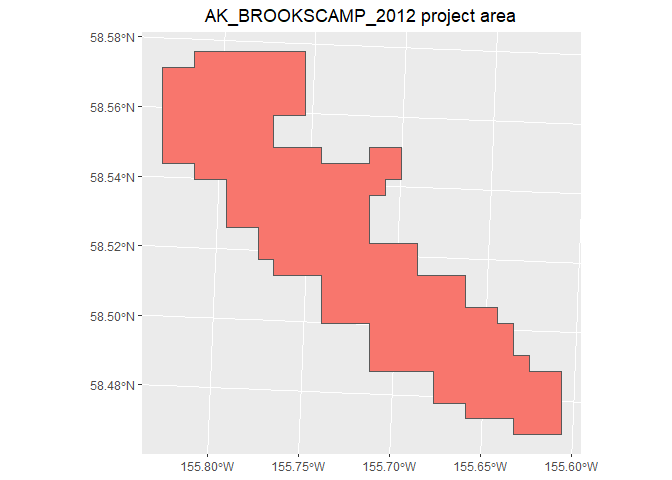
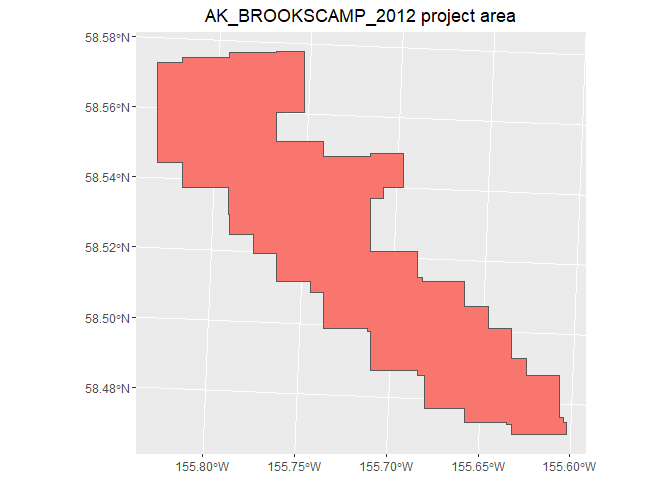
Modifed the call to st_rasterize in BuildProjectPolygonFromIndex to use nx, ny instead of dx, dy and updated the readme file

diff --git a/README.md b/README.md
@@ -58,48 +58,7 @@ pointCRS <- 26905
 # create index
 BuildIndexFromPoints(URL, pointFolder, outputFile, projString = pointCRS, 
                      appendInfo = data.frame("Project" = "AK_BrooksCamp_2012"))
-#> Building index:  AK_BrooksCamp_2012.gpkg 
-#> Read extent of AK_BrooksCamp_2012_000030.laz 
-#> Read extent of AK_BrooksCamp_2012_000039.laz 
-#> Read extent of AK_BrooksCamp_2012_000015.laz 
-#> Read extent of AK_BrooksCamp_2012_000024.laz 
-#> Read extent of AK_BrooksCamp_2012_000038.laz 
-#> Read extent of AK_BrooksCamp_2012_000019.laz 
-#> Read extent of AK_BrooksCamp_2012_000041.laz 
-#> Read extent of AK_BrooksCamp_2012_000025.laz 
-#> Read extent of AK_BrooksCamp_2012_000034.laz 
-#> Read extent of AK_BrooksCamp_2012_000020.laz 
-#> Read extent of AK_BrooksCamp_2012_000040.laz 
-#> Read extent of AK_BrooksCamp_2012_000029.laz 
-#> Read extent of AK_BrooksCamp_2012_000008.laz 
-#> Read extent of AK_BrooksCamp_2012_000009.laz 
-#> Read extent of AK_BrooksCamp_2012_000035.laz 
-#> Read extent of AK_BrooksCamp_2012_000001.laz 
-#> Read extent of AK_BrooksCamp_2012_000004.laz 
-#> Read extent of AK_BrooksCamp_2012_000010.laz 
-#> Read extent of AK_BrooksCamp_2012_000014.laz 
-#> Read extent of AK_BrooksCamp_2012_000031.laz 
-#> Read extent of AK_BrooksCamp_2012_000013.laz 
-#> Read extent of AK_BrooksCamp_2012_000023.laz 
-#> Read extent of AK_BrooksCamp_2012_000026.laz 
-#> Read extent of AK_BrooksCamp_2012_000005.laz 
-#> Read extent of AK_BrooksCamp_2012_000037.laz 
-#> Read extent of AK_BrooksCamp_2012_000002.laz 
-#> Read extent of AK_BrooksCamp_2012_000028.laz 
-#> Read extent of AK_BrooksCamp_2012_000016.laz 
-#> Read extent of AK_BrooksCamp_2012_000021.laz 
-#> Read extent of AK_BrooksCamp_2012_000036.laz 
-#> Read extent of AK_BrooksCamp_2012_000022.laz 
-#> Read extent of AK_BrooksCamp_2012_000032.laz 
-#> Read extent of AK_BrooksCamp_2012_000027.laz 
-#> Read extent of AK_BrooksCamp_2012_000033.laz 
-#> Read extent of AK_BrooksCamp_2012_000007.laz 
-#> Read extent of AK_BrooksCamp_2012_000012.laz 
-#> Read extent of AK_BrooksCamp_2012_000017.laz 
-#> Read extent of AK_BrooksCamp_2012_000011.laz 
-#> Read extent of AK_BrooksCamp_2012_000003.laz 
-#> Read extent of AK_BrooksCamp_2012_000018.laz 
-#> Read extent of AK_BrooksCamp_2012_000006.laz
+#> Index already exist...skipping: AK_BrooksCamp_2012.gpkg
 #> [1] TRUE
 # read the index and display
 index <- st_read(outputFile)
@@ -154,7 +113,7 @@ library(viridis)
 # read the FESM index from a local file
 index <- st_read("G:/R_Stuff/EntwineIndex/WESM.gpkg")
 #> Reading layer `WESM' from data source `G:\R_Stuff\EntwineIndex\WESM.gpkg' using driver `GPKG'
-#> Simple feature collection with 2436 features and 26 fields
+#> Simple feature collection with 2457 features and 26 fields
 #> Geometry type: MULTIPOLYGON
 #> Dimension:     XY
 #> Bounding box:  xmin: -179.2501 ymin: 13.232 xmax: 179.8547 ymax: 71.507
@@ -166,48 +125,7 @@ item <- index[which(index$workunit == "AK_BROOKSCAMP_2012"), ]
 
 # create index
 BuildIndexFromUSGSProjectIndexItem(item, pointFolder, outputFile)
-#> Building index:  AK_BrooksCamp_2012_Proj.gpkg 
-#> Read extent of AK_BrooksCamp_2012_000030.laz 
-#> Read extent of AK_BrooksCamp_2012_000039.laz 
-#> Read extent of AK_BrooksCamp_2012_000015.laz 
-#> Read extent of AK_BrooksCamp_2012_000024.laz 
-#> Read extent of AK_BrooksCamp_2012_000038.laz 
-#> Read extent of AK_BrooksCamp_2012_000019.laz 
-#> Read extent of AK_BrooksCamp_2012_000041.laz 
-#> Read extent of AK_BrooksCamp_2012_000025.laz 
-#> Read extent of AK_BrooksCamp_2012_000034.laz 
-#> Read extent of AK_BrooksCamp_2012_000020.laz 
-#> Read extent of AK_BrooksCamp_2012_000040.laz 
-#> Read extent of AK_BrooksCamp_2012_000029.laz 
-#> Read extent of AK_BrooksCamp_2012_000008.laz 
-#> Read extent of AK_BrooksCamp_2012_000009.laz 
-#> Read extent of AK_BrooksCamp_2012_000035.laz 
-#> Read extent of AK_BrooksCamp_2012_000001.laz 
-#> Read extent of AK_BrooksCamp_2012_000004.laz 
-#> Read extent of AK_BrooksCamp_2012_000010.laz 
-#> Read extent of AK_BrooksCamp_2012_000014.laz 
-#> Read extent of AK_BrooksCamp_2012_000031.laz 
-#> Read extent of AK_BrooksCamp_2012_000013.laz 
-#> Read extent of AK_BrooksCamp_2012_000023.laz 
-#> Read extent of AK_BrooksCamp_2012_000026.laz 
-#> Read extent of AK_BrooksCamp_2012_000005.laz 
-#> Read extent of AK_BrooksCamp_2012_000037.laz 
-#> Read extent of AK_BrooksCamp_2012_000002.laz 
-#> Read extent of AK_BrooksCamp_2012_000028.laz 
-#> Read extent of AK_BrooksCamp_2012_000016.laz 
-#> Read extent of AK_BrooksCamp_2012_000021.laz 
-#> Read extent of AK_BrooksCamp_2012_000036.laz 
-#> Read extent of AK_BrooksCamp_2012_000022.laz 
-#> Read extent of AK_BrooksCamp_2012_000032.laz 
-#> Read extent of AK_BrooksCamp_2012_000027.laz 
-#> Read extent of AK_BrooksCamp_2012_000033.laz 
-#> Read extent of AK_BrooksCamp_2012_000007.laz 
-#> Read extent of AK_BrooksCamp_2012_000012.laz 
-#> Read extent of AK_BrooksCamp_2012_000017.laz 
-#> Read extent of AK_BrooksCamp_2012_000011.laz 
-#> Read extent of AK_BrooksCamp_2012_000003.laz 
-#> Read extent of AK_BrooksCamp_2012_000018.laz 
-#> Read extent of AK_BrooksCamp_2012_000006.laz
+#> Index already exists...skipping: AK_BrooksCamp_2012_Proj.gpkg
 #> [1] TRUE
 # read the index and display
 tindex <- st_read(outputFile)
@@ -230,7 +148,10 @@ ggplot(tindex) +
 ## Example \#3: Create an overall polygon for a project from the tile index
 
 This example builds on Example \#2 to create a polygon showing the area
-covered by the point tiles.
+covered by the point tiles. The default size for the raster used to
+merge polygons is 512 by 512. By increasing this to 2048 by 2048, the
+project polygon captures the small tiles that are otherwise omitted when
+using the default size.
 
 ``` r
 # build on the last example to generate a project polygon
@@ -239,7 +160,8 @@ tproject <- BuildProjectPolygonFromIndex(
   outputFile,
   item$workunit,
   appendInfo = item[, c("workunit_id", "collect_start", "collect_end", "p_method", "horiz_crs")],
-  quiet = FALSE
+  quiet = FALSE,
+  nx = 2048, ny = 2048
 )
 #> Done with: ~/AK_BrooksCamp_2012_Proj.gpkg
 # display the project polygon
